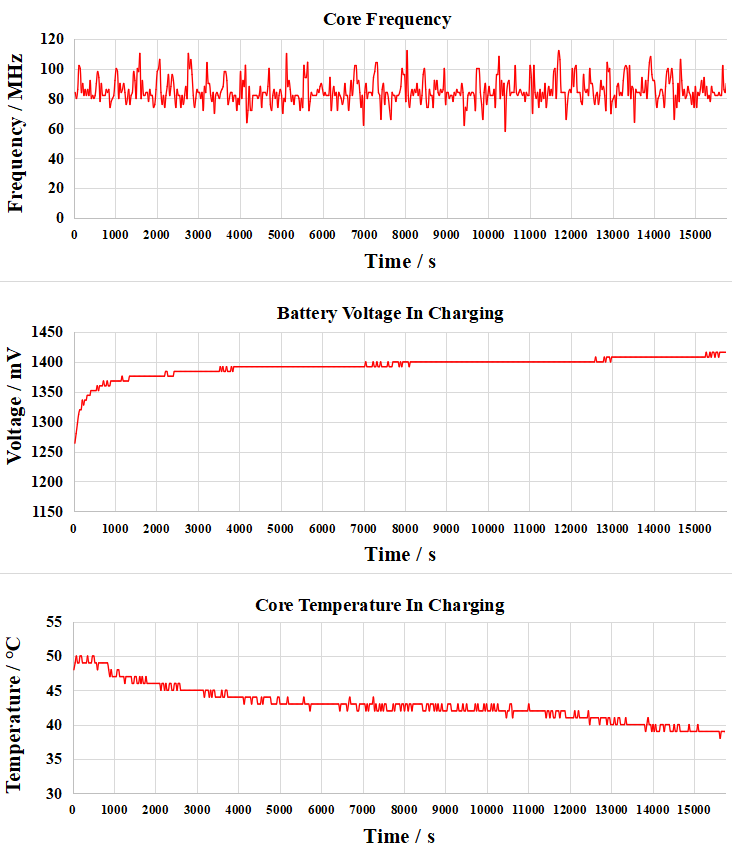
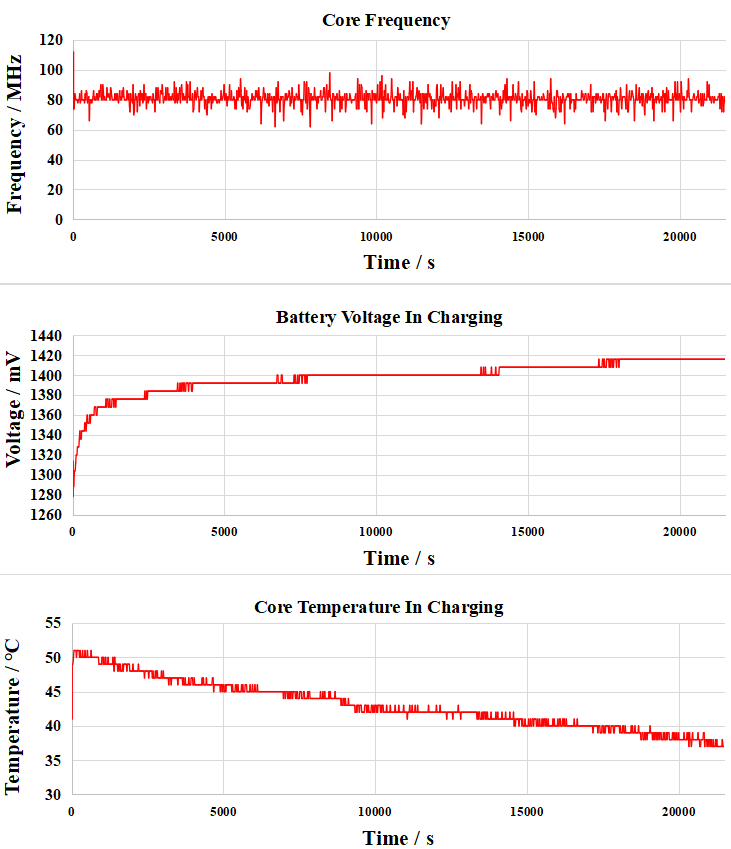
Disable FET while charging done.

diff --git a/System/main.c b/System/main.c
@@ -593,9 +593,15 @@ void main_thread() {
             SET_LABEL_TEXT(info_line3, "Batt: %d mv,  Charging: %s", cur_batt_volt, ll_get_charge_status() ? "Yes" : "NO" );
             SET_LABEL_TEXT(info_line4, "Pwr Speed: %d Ticks", ll_get_pwrspeed() );
 
+            if(cur_batt_volt > 1408)
+            {
+                ll_charge_enable(false);
+                lv_obj_clear_state(charge_chb, LV_STATE_CHECKED);
+            }
+
             //printf("f=%d,v=%d,t=%d\r\n", cur_fcpu, cur_batt_volt, cur_soc_temp);
             /*
-            if(runTime % 30 == 0)
+            if(runTime % 20 == 0)
             {
 
                 

diff --git a/README.md b/README.md
@@ -18,7 +18,6 @@
   - [目录](#目录)
   - [目前工作进展](#目前工作进展)
     - [实验性功能](#实验性功能)
-    - [已知问题](#已知问题)
   - [最新编译固件下载](#最新编译固件下载)
   - [自行修改代码编译固件](#自行修改代码编译固件)
     - [准备](#准备)
@@ -27,7 +26,7 @@
         - [添加 udev 规则](#添加-udev-规则)
         - [编译 sbtool](#编译-sbtool)
     - [编译系统](#编译系统)
-  - [固件安装（目前仅支持 Windows 下刷入）](#固件安装目前仅支持-windows-下刷入)
+  - [固件安装](#固件安装)
     - [刷入 OSLoader](#刷入-osloader)
       - [手动刷入](#手动刷入)
       - [自动工具刷入](#自动工具刷入)
@@ -83,11 +82,6 @@
 
 目前工作进展：如上。关于具体用户界面 GUI 等还在讨论中，如有宝贵意见可于 Issues 提出。
 
-### 已知问题
-
-由于LvGL图形库的移植仍存在某些问题，在开机绘制主界面时会有概率导致系统崩溃，需要自行手动重启系统`ON+F6`。除此之外暂未发现其它地方产生系统崩溃。
-
-
 ## 最新编译固件下载
 
 固件：https://github.com/ExistOS-Team/ExistOS-For-HP39GII/releases/tag/Latest
@@ -95,8 +89,6 @@
 刷机工具：https://github.com/ExistOS-Team/ExistOS_Updater_v2/releases
 
 ## 自行修改代码编译固件
-
-- 如果您只想快捷地安装本系统而非自行编译，请自行下载 [Release](https://github.com/ExistOS-Team/ExistOS-For-HP39GII/releases) 中的固件并直接跳至 `固件安装` 章节的 [自动工具刷入](#自动工具刷入) 部分。
 
 ### 准备
 
@@ -192,7 +184,7 @@ Windows 请用 Ninja：
 ninja
 ```
 
-## 固件安装（目前仅支持 Windows 下刷入）
+## 固件安装
 
 ### 刷入 OSLoader
 
@@ -436,7 +428,7 @@ def f():
 
 ![Sys1](Image/41.png)
 
-以下是使用一节标称400mAh 1.2V AAAA电池测试充电时绘制的系统状况曲线（充电时间：5小时）：
+以下是使用一节标称400mAh 1.2V AAAA电池测试充电时绘制的系统状况曲线（充电时间：6小时）：
 
 ![Sys1](Image/42.png)
 